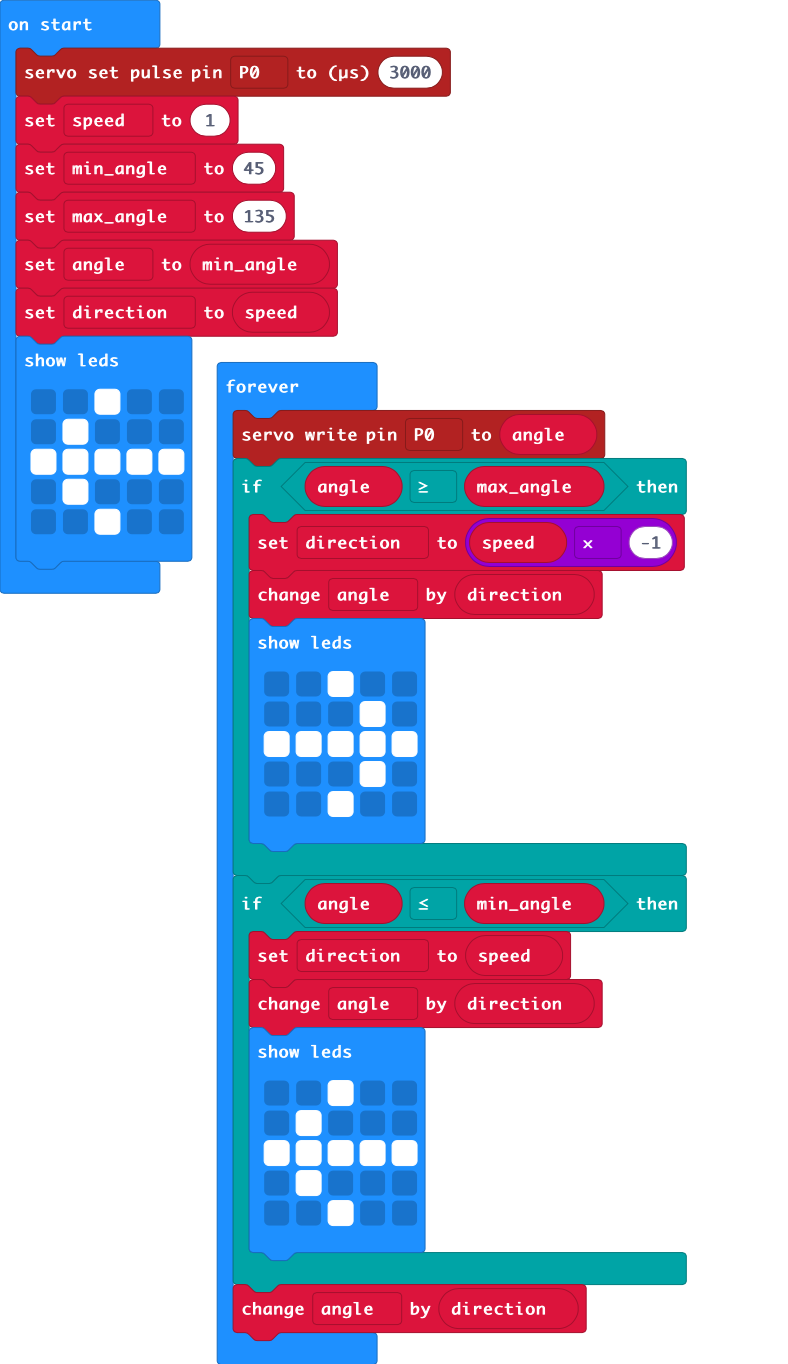
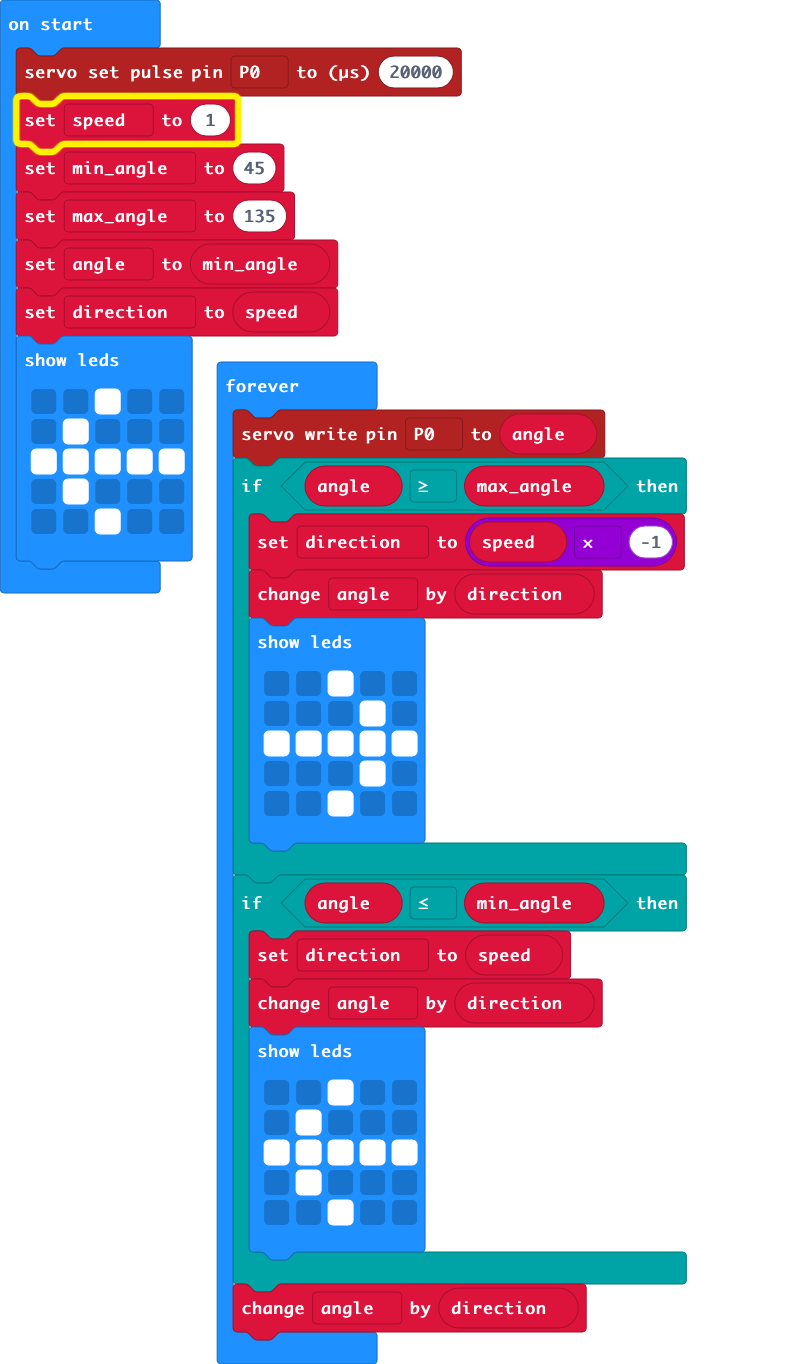
Update main.blocks, main.ts

diff --git a/main.ts b/main.ts
@@ -1,4 +1,4 @@
-pins.servoSetPulse(AnalogPin.P0, 3000)
+pins.servoSetPulse(AnalogPin.P0, 20000)
 let speed = 1
 let min_angle = 45
 let max_angle = 135
